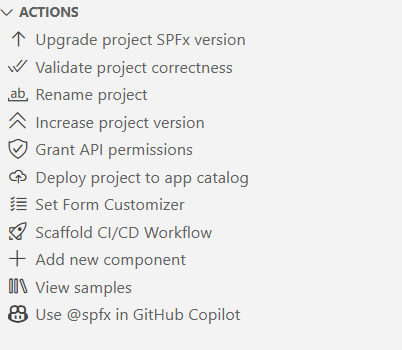
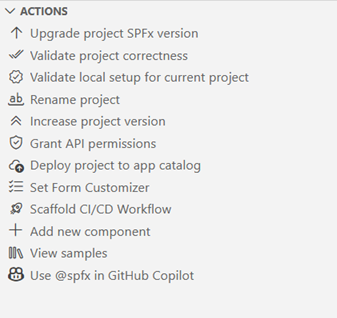
Updates documentation

Changed region(s): [[0.0, 0.0849, 0.7418, 0.934], [0.0, 0.0, 0.2077, 0.0566]]

diff --git a/assets/walkthrough/actions.md b/assets/walkthrough/actions.md
@@ -6,7 +6,59 @@ The actions section allows unique functionalities that may significantly boost p
 
 Currently the extension allows you to:
 
-- **CI/CD Workflow** - This action will allow you to generate yaml CI/CD GitHub Workflow or Azure DevOps Pipeline to bundle, package, and deploy your project to any app catalog on every code push. 
+- **Upgrade project SPFx version** - Generates a detailed upgrade report (`.md` and/or code tour) to guide users from their current SPFx version to a selected target version using CLI for Microsoft 365. The report includes both required and optional upgrade steps, with a consolidated script at the end for automated actions and a list of remaining manual steps.
+
+![Upgrade project](../../docs/assets/images-vscode/upgrade-project.png)
+
+And the code tour guidance will provide you upgrade tips directly in your code!
+
+![Upgrade project](../../docs/assets/images-vscode/upgrade-project-code-tour.png)
+
+[Check out our docs for more details](https://pnp.github.io/vscode-viva/features/actions#upgrade-project)
+
+- **Validate project correctness** - Creates a validation .md report and/or code tour validation guidance for the currently open SPFx project. The action will automatically detect the SPFx version used and will validate if the project is properly set up.
+
+![Validate project](../../docs/assets/images-vscode/validate-project.png)
+
+[Check out our docs for more details](https://pnp.github.io/vscode-viva/features/actions#validate-current-project)
+
+- **Validate local setup for current project** - This action will validate the local setup for the currently open SPFx project, ensuring all necessary global dependencies are in place.
+
+![Validate local setup for current project](../../docs/assets/images-vscode/validate-local-setup-for-current-project.png)
+
+[Check out our docs for more details](https://pnp.github.io/vscode-viva/features/actions#validate-local-setup)
+
+- **Rename project** - Forget about manual work and let the extension rename your project and generate a new solution ID. 
+
+![Rename](../../docs/assets/images-vscode/rename.png)
+
+[Check out our docs for more details](https://pnp.github.io/vscode-viva/features/actions#rename-current-project)
+
+- **Increase project version** - This action allows you to increase project major, minor or patch varsion and automatically align the versioning between `package.json` and `package-solution.json` files.
+
+![Increase project version](../../docs/assets/images-vscode/increase-versioning.png)
+
+[Check out our docs for more details](https://pnp.github.io/vscode-viva/features/actions#increase-project-version)
+
+- **Grant API permissions** - The action will Grant all API permissions specified in the package-solution.json of the current project. This is especially helpful if you just want to debug your SPFx solution using Workbench. No longer do you need to bundle, package, and deploy the project to then go to the SharePoint admin portal and consent to the permissions. All of that is now done with just a single click. 
+
+![Grant permissions](../../docs/assets/images-vscode/grant-permissions.png)
+
+[Check out our docs for more details](https://pnp.github.io/vscode-viva/features/actions#grant-api-permissions)
+
+- **Deploy project to app catalog** - This action will only work when the user is logged in to tenant and the sppkg file is present. The action will deploy the project to the selected (tenant or site) app catalog. 
+
+![Deploy](../../docs/assets/images-vscode/deploy.png)
+
+[Check out our docs for more details](https://pnp.github.io/vscode-viva/features/actions#deploy-project)
+
+- **Set Form Customizer** - Allows to update the New, Edit or View from of any SharePoint List to a given SPFx Form Customizer based on provided GUID. 
+
+![Set Form Customizer](../../docs/assets/images-vscode/set-form-customizer-action.png)
+
+[Check out our docs for more details](https://pnp.github.io/vscode-viva/features/actions#set-form-customizer)
+
+- **Scaffold CI/CD Workflow** - This action will allow you to generate yaml CI/CD GitHub Workflow or Azure DevOps Pipeline to bundle, package, and deploy your project to any app catalog on every code push. 
 
 ![CI CD pipeline](../../docs/assets/images-vscode/CICD-pipeline.png)
 
@@ -18,60 +70,14 @@ And for Azure DevOps👇
 
 ![Azure DevOps CI CD pipeline](../../docs/assets/images-vscode/azdo-ci-cd.gif)
 
-[Check out our docs for more details](https://pnp.github.io/vscode-viva/features/ci-cd/)
-
-- **Upgrade project** - Generates a detailed upgrade report (`.md` and/or code tour) to guide users from their current SPFx version to a selected target version using CLI for Microsoft 365. The report includes both required and optional upgrade steps, with a consolidated script at the end for automated actions and a list of remaining manual steps.
-
-![Upgrade project](../../docs/assets/images-vscode/upgrade-project.png)
-
-And the code tour guidance will provide you upgrade tips directly in your code!
-
-![Upgrade project](../../docs/assets/images-vscode/upgrade-project-code-tour.png)
-
-[Check out our docs for more details](https://pnp.github.io/vscode-viva/features/actions/#upgrade-project)
-
-- **Validate project** - Creates a validation .md report and/or code tour validation guidance for the currently open SPFx project. The action will automatically detect the SPFx version used and will validate if the project is properly set up.
-
-![Upgrade project](../../docs/assets/images-vscode/validate-project.png)
-
-[Check out our docs for more details](https://pnp.github.io/vscode-viva/features/actions/#validate-current-project)
-
-- **Rename project** - Forget about manual work and let the extension rename your project and generate a new solution ID. 
-
-![Rename](../../docs/assets/images-vscode/rename.png)
-
-[Check out our docs for more details](https://pnp.github.io/vscode-viva/features/actions/#rename-current-project)
-
-- **Grant API permissions** - The action will Grant all API permissions specified in the package-solution.json of the current project. This is especially helpful if you just want to debug your SPFx solution using Workbench. No longer do you need to bundle, package, and deploy the project to then go to the SharePoint admin portal and consent to the permissions. All of that is now done with just a single click. 
-
-![Grant permissions](../../docs/assets/images-vscode/grant-permissions.png)
-
-[Check out our docs for more details](https://pnp.github.io/vscode-viva/features/actions/#grant-api-permissions)
-
-- **Deploy project** - This action will only work when the user is logged in to tenant and the sppkg file is present. The action will deploy the project to the selected (tenant or site) app catalog. 
-
-![Deploy](../../docs/assets/images-vscode/deploy.png)
-
-[Check out our docs for more details](https://pnp.github.io/vscode-viva/features/actions/#deploy-project)
+[Check out our docs for more details](https://pnp.github.io/vscode-viva/features/ci-cd)
 
 - **Add new component** - Allows scaffolding a new SPFx project as a new component of the currently opened project. The action under the hood uses the same SharePoint Yeoman generator to scaffold a new project and this feature is an abstraction UI layer. 
 
 ![Add component](../../docs/assets/images-vscode/add-component.png)
 
-[Check out our docs for more details](https://pnp.github.io/vscode-viva/features/actions/#add-new-component)
-
-- **Set Form Customizer** - Allows to update the New, Edit or View from of any SharePoint List to a given SPFx Form Customizer based on provided GUID. 
-
-![Set Form Customizer](../../docs/assets/images-vscode/set-form-customizer-action.png)
-
-[Check out our docs for more details](https://pnp.github.io/vscode-viva/features/actions/#set-form-customizer)
-
-- **Increase project version** - This action allows you to increase project major, minor or patch version and automatically align the versioning between `package.json` and `package-solution.json` files.
-
-![Increase project version](../../docs/assets/images-vscode/increase-versioning.png)
-
-[Check out our docs for more details](https://pnp.github.io/vscode-viva/features/actions/#increase-project-version)
+[Check out our docs for more details](https://pnp.github.io/vscode-viva/features/actions#add-new-component)
 
 - **Open sample/scenario galleries of the SPFx web part, extensions, or ACEs projects** - SharePoint Framework Toolkit supports a couple of sample galleries that may be used to scaffold a new SPFx project. 
 
-[Check out our docs for more details](https://pnp.github.io/vscode-viva/features/actions/#open-samplescenario-galleries-of-the-spfx-web-part-extensions-or-aces-projects)
+[Check out our docs for more details](https://pnp.github.io/vscode-viva/features/actions#open-samplescenario-galleries-of-the-spfx-web-part-extensions-or-aces-projects)

diff --git a/README.md b/README.md
@@ -207,7 +207,59 @@ The actions section allows unique functionalities that may significantly boost p
 
 Currently the extension allows you to:
 
-- **CI/CD Workflow** - This action will allow you to generate yaml CI/CD GitHub Workflow or Azure DevOps Pipeline to bundle, package, and deploy your project to any app catalog on every code push. 
+- **Upgrade project SPFx version** - Generates a detailed upgrade report (`.md` and/or code tour) to guide users from their current SPFx version to a selected target version using CLI for Microsoft 365. The report includes both required and optional upgrade steps, with a consolidated script at the end for automated actions and a list of remaining manual steps.
+
+![Upgrade project](./docs/assets/images-vscode/upgrade-project.png)
+
+And the code tour guidance will provide you upgrade tips directly in your code!
+
+![Upgrade project](./docs/assets/images-vscode/upgrade-project-code-tour.png)
+
+[Check out our docs for more details](https://pnp.github.io/vscode-viva/features/actions#upgrade-project)
+
+- **Validate project correctness** - Creates a validation .md report and/or code tour validation guidance for the currently open SPFx project. The action will automatically detect the SPFx version used and will validate if the project is properly set up.
+
+![Validate project](./docs/assets/images-vscode/validate-project.png)
+
+[Check out our docs for more details](https://pnp.github.io/vscode-viva/features/actions#validate-current-project)
+
+- **Validate local setup for current project** - This action will validate the local setup for the currently open SPFx project, ensuring all necessary global dependencies are in place.
+
+![Validate local setup for current project](./docs/assets/images-vscode/validate-local-setup-for-current-project.png)
+
+[Check out our docs for more details](https://pnp.github.io/vscode-viva/features/actions#validate-local-setup)
+
+- **Rename project** - Forget about manual work and let the extension rename your project and generate a new solution ID. 
+
+![Rename](./docs/assets/images-vscode/rename.png)
+
+[Check out our docs for more details](https://pnp.github.io/vscode-viva/features/actions#rename-current-project)
+
+- **Increase project version** - This action allows you to increase project major, minor or patch varsion and automatically align the versioning between `package.json` and `package-solution.json` files.
+
+![Increase project version](./docs/assets/images-vscode/increase-versioning.png)
+
+[Check out our docs for more details](https://pnp.github.io/vscode-viva/features/actions#increase-project-version)
+
+- **Grant API permissions** - The action will Grant all API permissions specified in the package-solution.json of the current project. This is especially helpful if you just want to debug your SPFx solution using Workbench. No longer do you need to bundle, package, and deploy the project to then go to the SharePoint admin portal and consent to the permissions. All of that is now done with just a single click. 
+
+![Grant permissions](./docs/assets/images-vscode/grant-permissions.png)
+
+[Check out our docs for more details](https://pnp.github.io/vscode-viva/features/actions#grant-api-permissions)
+
+- **Deploy project to app catalog** - This action will only work when the user is logged in to tenant and the sppkg file is present. The action will deploy the project to the selected (tenant or site) app catalog. 
+
+![Deploy](./docs/assets/images-vscode/deploy.png)
+
+[Check out our docs for more details](https://pnp.github.io/vscode-viva/features/actions#deploy-project)
+
+- **Set Form Customizer** - Allows to update the New, Edit or View from of any SharePoint List to a given SPFx Form Customizer based on provided GUID. 
+
+![Set Form Customizer](./docs/assets/images-vscode/set-form-customizer-action.png)
+
+[Check out our docs for more details](https://pnp.github.io/vscode-viva/features/actions#set-form-customizer)
+
+- **Scaffold CI/CD Workflow** - This action will allow you to generate yaml CI/CD GitHub Workflow or Azure DevOps Pipeline to bundle, package, and deploy your project to any app catalog on every code push. 
 
 ![CI CD pipeline](./docs/assets/images-vscode/CICD-pipeline.png)
 
@@ -221,57 +273,11 @@ And for Azure DevOps👇
 
 [Check out our docs for more details](https://pnp.github.io/vscode-viva/features/ci-cd)
 
-- **Upgrade project** - Generates a detailed upgrade report (`.md` and/or code tour) to guide users from their current SPFx version to a selected target version using CLI for Microsoft 365. The report includes both required and optional upgrade steps, with a consolidated script at the end for automated actions and a list of remaining manual steps.
-
-![Upgrade project](./docs/assets/images-vscode/upgrade-project.png)
-
-And the code tour guidance will provide you upgrade tips directly in your code!
-
-![Upgrade project](./docs/assets/images-vscode/upgrade-project-code-tour.png)
-
-[Check out our docs for more details](https://pnp.github.io/vscode-viva/features/actions#upgrade-project)
-
-- **Validate project** - Creates a validation .md report and/or code tour validation guidance for the currently open SPFx project. The action will automatically detect the SPFx version used and will validate if the project is properly set up.
-
-![Upgrade project](./docs/assets/images-vscode/validate-project.png)
-
-[Check out our docs for more details](https://pnp.github.io/vscode-viva/features/actions#validate-current-project)
-
-- **Rename project** - Forget about manual work and let the extension rename your project and generate a new solution ID. 
-
-![Rename](./docs/assets/images-vscode/rename.png)
-
-[Check out our docs for more details](https://pnp.github.io/vscode-viva/features/actions#rename-current-project)
-
-- **Grant API permissions** - The action will Grant all API permissions specified in the package-solution.json of the current project. This is especially helpful if you just want to debug your SPFx solution using Workbench. No longer do you need to bundle, package, and deploy the project to then go to the SharePoint admin portal and consent to the permissions. All of that is now done with just a single click. 
-
-![Grant permissions](./docs/assets/images-vscode/grant-permissions.png)
-
-[Check out our docs for more details](https://pnp.github.io/vscode-viva/features/actions#grant-api-permissions)
-
-- **Deploy project** - This action will only work when the user is logged in to tenant and the sppkg file is present. The action will deploy the project to the selected (tenant or site) app catalog. 
-
-![Deploy](./docs/assets/images-vscode/deploy.png)
-
-[Check out our docs for more details](https://pnp.github.io/vscode-viva/features/actions#deploy-project)
-
 - **Add new component** - Allows scaffolding a new SPFx project as a new component of the currently opened project. The action under the hood uses the same SharePoint Yeoman generator to scaffold a new project and this feature is an abstraction UI layer. 
 
 ![Add component](./docs/assets/images-vscode/add-component.png)
 
 [Check out our docs for more details](https://pnp.github.io/vscode-viva/features/actions#add-new-component)
-
-- **Set Form Customizer** - Allows to update the New, Edit or View from of any SharePoint List to a given SPFx Form Customizer based on provided GUID. 
-
-![Set Form Customizer](./docs/assets/images-vscode/set-form-customizer-action.png)
-
-[Check out our docs for more details](https://pnp.github.io/vscode-viva/features/actions#set-form-customizer)
-
-- **Increase project version** - This action allows you to increase project major, minor or patch varsion and automatically align the versioning between `package.json` and `package-solution.json` files.
-
-![Increase project version](./docs/assets/images-vscode/increase-versioning.png)
-
-[Check out our docs for more details](https://pnp.github.io/vscode-viva/features/actions#increase-project-version)
 
 - **Open sample/scenario galleries of the SPFx web part, extensions, or ACEs projects** - SharePoint Framework Toolkit supports a couple of sample galleries that may be used to scaffold a new SPFx project. 
 
